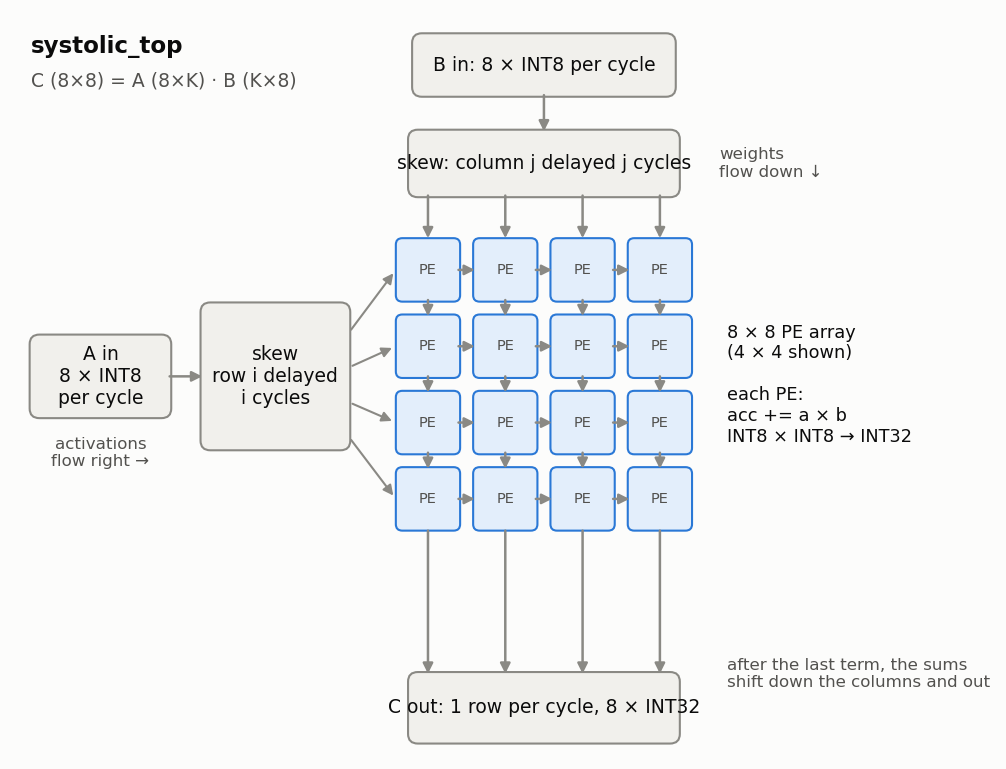
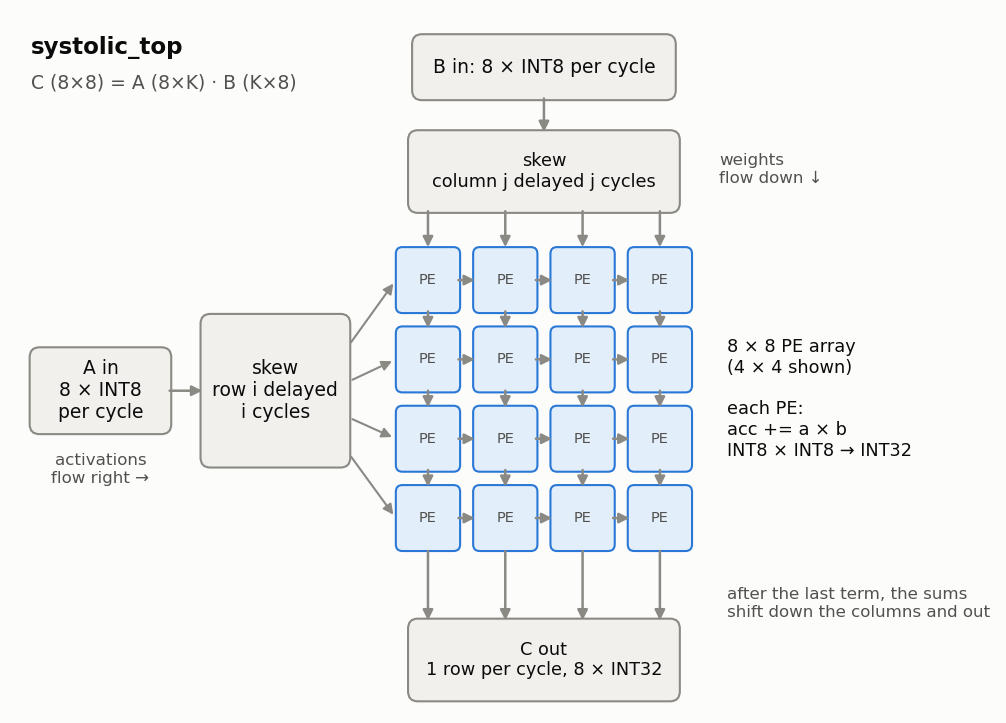
Block diagram: fix overflowing labels

diff --git a/docs/scripts/block_diagram.py b/docs/scripts/block_diagram.py
@@ -8,9 +8,9 @@ from matplotlib.patches import FancyBboxPatch
 SURF, INK, INK2, LINE = "#fcfcfb", "#0b0b0b", "#52514e", "#8a8984"
 PE_FILL, PE_EDGE, BOX_FILL = "#e3eefb", "#2a78d6", "#f1f0ec"
 
-fig, ax = plt.subplots(figsize=(8.4, 6.4), dpi=150)
+fig, ax = plt.subplots(figsize=(8.4, 6.0), dpi=150)
 fig.patch.set_facecolor(SURF); ax.set_facecolor(SURF)
-ax.set_xlim(0, 12); ax.set_ylim(-1.2, 8); ax.axis("off")
+ax.set_xlim(0, 12); ax.set_ylim(-0.3, 8); ax.axis("off")
 
 def box(x, y, w, h, text, fc=BOX_FILL, ec=LINE, fs=9, bold=False):
     ax.add_patch(FancyBboxPatch((x, y), w, h, boxstyle="round,pad=0.02,rounding_size=0.12",
@@ -47,19 +47,19 @@ ax.text(1.05, 2.75, "activations\nflow right →", ha="center", va="top", fontsi
 
 # B input + skew (top)
 box(gx + 0.3, 7.0, 3.2, 0.75, "B in: 8 × INT8 per cycle")
-box(gx + 0.25, 5.75, 3.3, 0.8, "skew: column j delayed j cycles")
-arrow(gx + 1.9, 7.0, gx + 1.9, 6.55)
+box(gx + 0.25, 5.65, 3.3, 0.95, "skew\ncolumn j delayed j cycles", fs=8.5)
+arrow(gx + 1.9, 7.0, gx + 1.9, 6.6)
 for j in range(n):
     x = gx + j*cell + cell/2
-    arrow(x, 5.75, x, gy + n*cell - 0.08)
+    arrow(x, 5.65, x, gy + n*cell - 0.08)
 ax.text(gx + n*cell + 0.25, 6.15, "weights\nflow down ↓", ha="left", va="center", fontsize=8, color=INK2)
 
 # Output (below)
-box(gx + 0.25, -1.05, 3.3, 0.85, "C out: 1 row per cycle, 8 × INT32")
+box(gx + 0.25, -0.2, 3.3, 0.95, "C out\n1 row per cycle, 8 × INT32", fs=8.5)
 for j in range(n):
     x = gx + j*cell + cell/2
-    arrow(x, gy + 0.08, x, -0.2)
-ax.text(gx + n*cell + 0.35, -0.2, "after the last term, the sums\nshift down the columns and out", ha="left", va="center", fontsize=8, color=INK2)
+    arrow(x, gy + 0.08, x, 0.75)
+ax.text(gx + n*cell + 0.35, 0.95, "after the last term, the sums\nshift down the columns and out", ha="left", va="center", fontsize=8, color=INK2)
 
 ax.text(0.2, 7.75, "systolic_top", fontsize=11, color=INK, fontweight="bold", va="top")
 ax.text(0.2, 7.3, "C (8×8) = A (8×K) · B (K×8)", fontsize=9, color=INK2, va="top")
